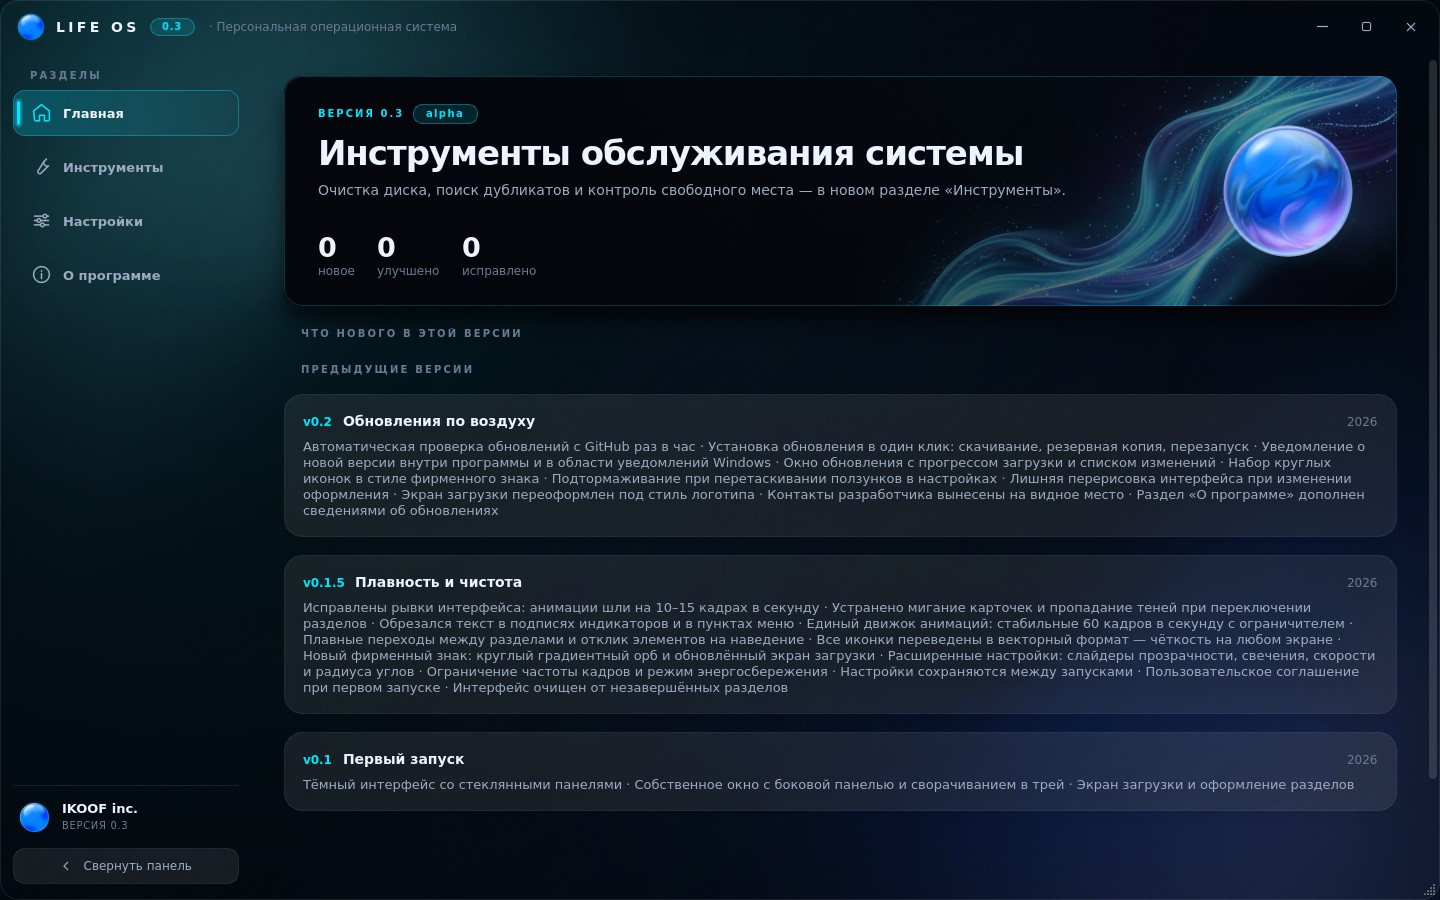
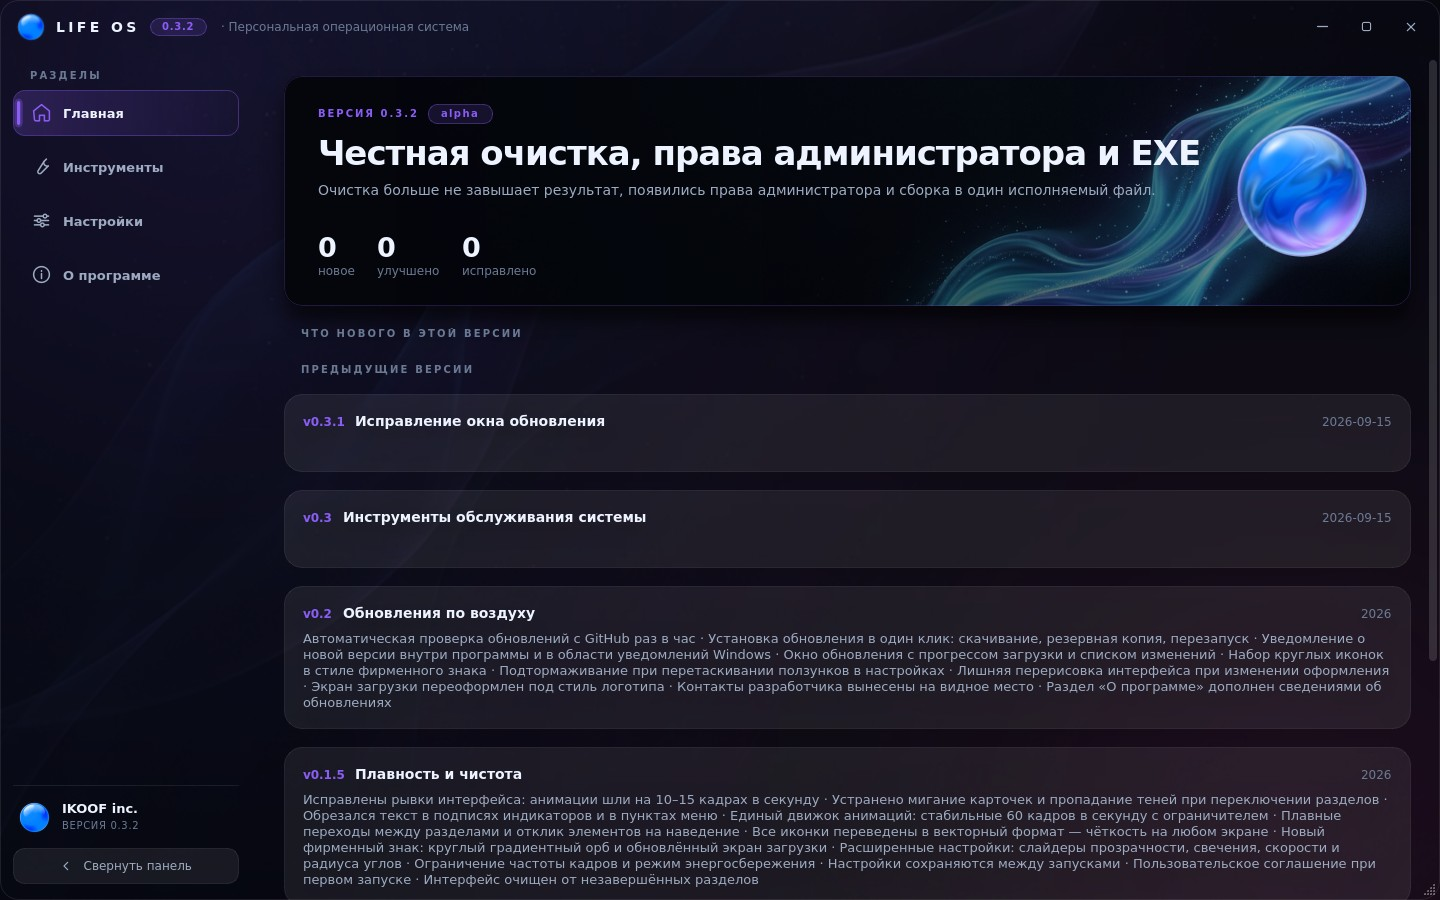
0.3.2: корректное завершение потоков инструментов, свежие скриншоты

Changed region(s): [[0.1875, 0.4356, 1.0, 1.0], [0.0, 0.0, 1.0, 0.3733]]

diff --git a/lifeos/tools_page.py b/lifeos/tools_page.py
@@ -500,9 +500,18 @@ class ToolWindow(QWidget):
         self.btn_go.setEnabled(False)
 
     def closeEvent(self, e):
+        # Дожидаемся фоновых потоков, иначе Qt ругается на уничтожение
+        # работающего QThread.
         for w in (self._scan, self._clean):
-            if w and w.isRunning():
-                w.wait(2000)
+            if w is None:
+                continue
+            if w.isRunning():
+                w.requestInterruption()
+                if not w.wait(3000):
+                    w.terminate()
+                    w.wait(1000)
+            w.setParent(None)
+        self._scan = self._clean = None
         super().closeEvent(e)
 
 
